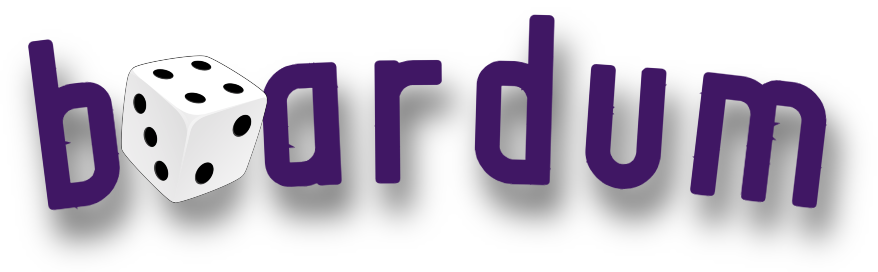
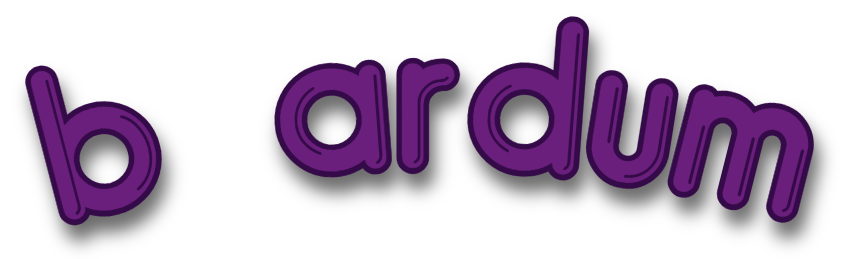
fixed dice spinning

diff --git a/boardum/src/app/page.tsx b/boardum/src/app/page.tsx
@@ -157,7 +157,7 @@ export default function Home() {
 
       <main className={styles.main}>
         <center>
-          <div style={{ position: 'relative', width: '400px', height: '400px' }}>
+          <div style={{ position: 'relative', width: '400px', height: '150px' }}>
             <motion.div
               animate={{ rotate: 360 }}
               transition={{ repeat: Infinity, duration: 3, ease: "circInOut" }}
@@ -167,7 +167,7 @@ export default function Home() {
               <Image src="/dice.png" alt="boardum" width={80} height={80} />
             </motion.div>
             <Image
-              src="/boardum2.png"
+              src="/boardum.png"
               alt="boardum"
               width={400}
               height={400}
